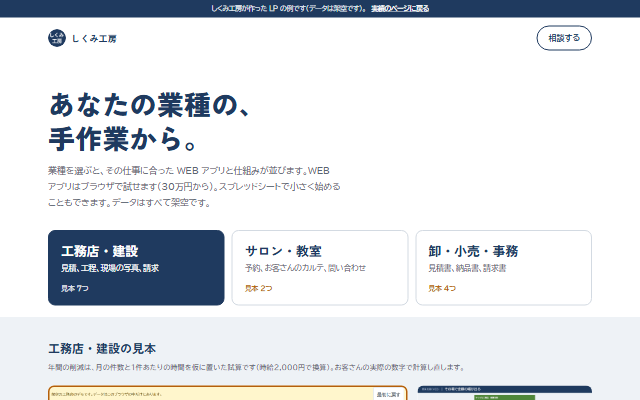
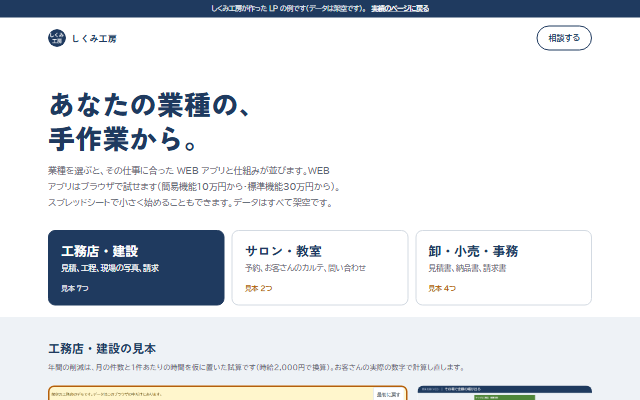
WEB アプリの値段を、簡易機能10万円から・標準機能30万円からにする

Changed region(s): [[0.0625, 0.45, 0.5312, 0.54]]

diff --git a/index.html b/index.html
@@ -246,7 +246,7 @@ footer a { color:var(--ink); }
   <h1><span>現場も予約も、</span><span>スマホで回る仕組みに。</span></h1>
   <p class="lead">予約・現場・お客さんの管理を、WEB アプリにします。社長・社員・お客さんで見える範囲を分け、外からもスマホのホーム画面から使えます。IT 担当のいない小さな会社のための仕組みです。</p>
   <div class="actions"><a class="btn primary" href="#web">WEB アプリを試す</a><a class="btn ghost" href="#contact">無料で相談する</a></div>
-  <ul class="facts"><li><b>2</b>つの WEB アプリを、ブラウザで試せます</li><li>WEB アプリは<b>30</b>万円から</li><li>スプレッドシートなら<b>2</b>万円から始められます</li><li>納品から<b>30</b>日間、不具合は無料で直します</li></ul>
+  <ul class="facts"><li><b>2</b>つの WEB アプリを、ブラウザで試せます</li><li>WEB アプリは<b>10</b>万円から</li><li>スプレッドシートなら<b>2</b>万円から始められます</li><li>納品から<b>30</b>日間、不具合は無料で直します</li></ul>
 </header>
 
 <section class="block" id="pains" aria-labelledby="pains-h">
@@ -259,7 +259,7 @@ footer a { color:var(--ink); }
   <h2 id="ways-h">3つの作り方</h2>
   <p class="intro">今お使いの道具と、困りごとの大きさに合わせて選びます。</p>
   <div class="ways">
-    <div class="main"><h3>WEB アプリ</h3><p class="price">30万円から</p><p>ログインと権限、予約や現場の管理、お客さんの専用ページ。スプレッドシートでは足りない業務の画面を作ります。スマホのホーム画面にも入れられます。</p><p class="to"><a href="#web">見本2つ（ブラウザで試せます）</a>　<a href="web.html">WEB で管理するよさ</a></p></div>
+    <div class="main"><h3>WEB アプリ</h3><p class="price">簡易機能 10万円から・標準機能 30万円から</p><p>今の Excel やスプレッドシートを、スマホでも使える画面に（簡易機能）。ログインと権限、予約や現場の管理など、複数の業務をまとめる社内システムに（標準機能）。スマホのホーム画面にも入れられます。</p><p class="to"><a href="#web">見本2つ（ブラウザで試せます）</a>　<a href="web.html">WEB で管理するよさ</a></p></div>
     <div><h3>Google スプレッドシート</h3><p class="price">1つ2万円から</p><p>今お使いの Google の中で、記録・通知・書類の作成を自動にします。困りごと1つから、小さく始められます。</p><p class="to"><a href="#small">見本6つ（動画）</a></p></div>
     <div><h3>Excel（マクロ）</h3><p class="price">ご相談</p><p>Excel のまま、見積書から納品書、月の請求書までをつなげます。今ある Excel のマクロの修正も承ります。</p><p class="to"><a href="#small">見本1つ（動画）</a></p></div>
   </div>
@@ -305,7 +305,7 @@ footer a { color:var(--ink); }
   <ol class="road">
     <li><span class="num">1</span><h3>小さく始める</h3><p>スプレッドシートや Excel で、困りごと1つを自動に。</p><p class="price">1つ2万円から・セット4万円から</p></li>
     <li><span class="num">2</span><h3>データがたまる</h3><p>顧客・現場・見積が、1つの台帳にそろっていきます。</p></li>
-    <li><span class="num">3</span><h3>WEB アプリに移す</h3><p>人が増え、見せる範囲を分けたくなったら。見本の台帳は WEB アプリと列をそろえてあり、データを移しやすい作りです。</p><p class="price">30万円から</p></li>
+    <li><span class="num">3</span><h3>WEB アプリに移す</h3><p>人が増え、見せる範囲を分けたくなったら。見本の台帳は WEB アプリと列をそろえてあり、データを移しやすい作りです。</p><p class="price">簡易機能 10万円から・標準機能 30万円から</p></li>
     <li><span class="num">4</span><h3>スマホとお客さんの窓口</h3><p>外からスマホで使い、お客さんには専用ページや24時間の予約を。</p><p class="to"><a href="pwa.html">スマホのアプリとして使う</a></p></li>
   </ol>
 </section>

diff --git a/variants/c.html b/variants/c.html
@@ -107,7 +107,7 @@ footer a { color:var(--ink); }
 
 <section class="sec" aria-labelledby="v-h">
   <h2 id="v-h">小さく始めるなら、スプレッドシートと Excel</h2>
-  <p class="intro">困りごと1つから、1つ2万円で始められます。データがたまったら、上の WEB アプリ（30万円から）に移せます。どれも1〜2分の動画で、実際の画面を紹介しています。年間の削減は、件数と時間を仮に置いた試算です（時給2,000円で換算）。</p>
+  <p class="intro">困りごと1つから、1つ2万円で始められます。データがたまったら、上の WEB アプリ（簡易機能10万円から・標準機能30万円から）に移せます。どれも1〜2分の動画で、実際の画面を紹介しています。年間の削減は、件数と時間を仮に置いた試算です（時給2,000円で換算）。</p>
   <ul class="vids"><li><a href="https://youtu.be/xjfs_oFX_Rw" target="_blank" rel="noopener"><span class="thumb"><img src="../images/01-1.png" alt="お客さんがスマホで選ぶと、金額の幅（税込）が出る" width="1920" height="1080" loading="lazy"><span class="play">動画</span></span><h3>概算見積（WEB）</h3><p>概算の金額を電話・メールで聞かれ、返事が翌日になる<br><b>年約40時間</b>（試算）</p></a></li><li><a href="https://youtu.be/VqnUljA0n3E" target="_blank" rel="noopener"><span class="thumb"><img src="../images/02-1.png" alt="WEB のフォームから送ると、台帳の「受付」に1行入る" width="1920" height="1080" loading="lazy"><span class="play">動画</span></span><h3>お問い合わせの記録と通知</h3><p>問い合わせを、メールや紙から台帳に書き写している<br><b>年約22時間</b>（試算）</p></a></li><li><a href="https://youtu.be/_-2qiz1TLeg" target="_blank" rel="noopener"><span class="thumb"><img src="../images/03-1.png" alt="品目を選んで数量を入れる「見積の入力」" width="1920" height="1080" loading="lazy"><span class="play">動画</span></span><h3>正式な見積書</h3><p>見積書を、前の Excel をコピーして打ち直している<br><b>年約90時間</b>（試算）</p></a></li><li><a href="https://youtu.be/U8hm_w8dHZQ" target="_blank" rel="noopener"><span class="thumb"><img src="../images/04-1.png" alt="「予定」を1行入れてカレンダーに反映する" width="1920" height="1080" loading="lazy"><span class="play">動画</span></span><h3>工程表とカレンダー</h3><p>職人さんに、夕方1人ずつ電話で予定を伝えている<br><b>年約48時間</b>（試算）</p></a></li><li><a href="https://youtu.be/v-evSr0hZZM" target="_blank" rel="noopener"><span class="thumb"><img src="../images/05-1.png" alt="スマホで現場と区分を選んで写真を送る" width="1920" height="1080" loading="lazy"><span class="play">動画</span></span><h3>現場の写真と書類</h3><p>LINE で届いた現場の写真を、手でフォルダに分けている<br><b>年約110時間</b>（試算）</p></a></li><li><a href="https://youtu.be/rY_ovs0BVUg" target="_blank" rel="noopener"><span class="thumb"><img src="../images/07-1.png" alt="対象の売上を顧客ごとにまとめた確認の画面" width="1920" height="1080" loading="lazy"><span class="play">動画</span></span><h3>請求書の自動作成</h3><p>月末に、売上の表から請求書を1通ずつ作っている<br><b>年約35時間</b>（試算）</p></a></li><li><a href="https://youtu.be/3ar2R-4wTmQ" target="_blank" rel="noopener"><span class="thumb"><img src="../images/X01-1.png" alt="動画の場面：ボタンで、見積書の PDF ができる" width="1920" height="1080" loading="lazy"><span class="play">動画</span></span><h3>見積書・納品書・請求書</h3><p>見積書・納品書・請求書を、別々に打ち直している<br><b>年約215時間</b>（試算）</p></a></li></ul>
 </section>
 </div>

diff --git a/variants/e.html b/variants/e.html
@@ -88,7 +88,7 @@ footer a { color:var(--ink); }
 <header class="open">
   <h1>小さく始めて、<br>WEB アプリまで育てる。</h1>
   <p>いきなり大きなシステムは要りません。従業員10人ほどの架空の工務店を例に、スプレッドシート1つから、スマホで回る WEB アプリになるまでの道のりを描きました。</p>
-  <ul class="chips"><li class="chip">はじめは<b>2</b>万円から</li><li class="chip goal">WEB アプリは<b>30</b>万円から</li><li class="chip">どの段階からでも始められます</li></ul>
+  <ul class="chips"><li class="chip">はじめは<b>2</b>万円から</li><li class="chip goal">WEB アプリは<b>10</b>万円から</li><li class="chip">どの段階からでも始められます</li></ul>
 </header>
 
 <ol class="road">
@@ -118,7 +118,7 @@ footer a { color:var(--ink); }
     <h2>WEB アプリに移す</h2>
     <p class="lead">人が増え、職人やお客さんに見せる範囲を分けたくなったら。見本の台帳は WEB アプリと列をそろえてあり、データを移しやすい作りです。</p>
     <div class="box">
-      <div class="facts"><span><b>30万円から</b>中身に合わせてお見積りします</span><span><b>約150時間・約30万円分</b>現場管理アプリの年間の削減（試算）</span></div>
+      <div class="facts"><span><b>標準機能 30万円から</b>今のシート1つを画面にする簡易機能は10万円から</span><span><b>約150時間・約30万円分</b>現場管理アプリの年間の削減（試算）</span></div>
       <ul class="items" style="grid-template-columns:1fr"><li><small>W01</small>現場管理アプリ<span class="e">年約150時間・約30万円分（試算）</span><a href="https://site-manager.shikumikobo.com/" target="_blank" rel="noopener">ブラウザで試す</a></li></ul>
       <p class="side"><a href="../web.html">WEB で管理するよさ</a>を、別のページで説明しています。</p>
     </div>

diff --git a/variants/b.html b/variants/b.html
@@ -76,7 +76,7 @@ footer a { color:var(--ink); }
 <div class="top"><a class="brand" href="#"><img src="../images/icon.png" alt="" width="36" height="36">しくみ工房</a><a class="btn" href="#contact">相談する</a></div>
 <header class="hero">
   <h1>あなたの業種の、<br>手作業から。</h1>
-  <p>業種を選ぶと、その仕事に合った WEB アプリと仕組みが並びます。WEB アプリはブラウザで試せます（30万円から）。スプレッドシートで小さく始めることもできます。データはすべて架空です。</p>
+  <p>業種を選ぶと、その仕事に合った WEB アプリと仕組みが並びます。WEB アプリはブラウザで試せます（簡易機能10万円から・標準機能30万円から）。スプレッドシートで小さく始めることもできます。データはすべて架空です。</p>
   <div class="inds" role="tablist" aria-label="業種"><button class="ind" role="tab" id="t-build" aria-controls="panel" aria-selected="false" data-ind="build"><b>工務店・建設</b><span>見積、工程、現場の写真、請求</span><small>見本 7つ</small></button><button class="ind" role="tab" id="t-salon" aria-controls="panel" aria-selected="false" data-ind="salon"><b>サロン・教室</b><span>予約、お客さんのカルテ、問い合わせ</span><small>見本 2つ</small></button><button class="ind" role="tab" id="t-trade" aria-controls="panel" aria-selected="false" data-ind="trade"><b>卸・小売・事務</b><span>見積書、納品書、請求書</span><small>見本 4つ</small></button></div>
 </header>
 </div>

diff --git a/web.html b/web.html
@@ -317,6 +317,16 @@ footer a { color:var(--ink); }
   </div>
 </section>
 
+<section class="block" aria-labelledby="w3">
+  <h2 id="w3">費用の目安</h2>
+  <p class="intro">中身をうかがってから、お見積りをお出しします。</p>
+  <div class="points">
+    <div><h3>簡易機能　10万円から</h3><p>今お使いの Excel やスプレッドシート1つを、スマホでも使える WEB の画面にします。一覧・詳細・登録の画面と、ログイン、ホーム画面への追加まで。</p></div>
+    <div><h3>標準機能　30万円から</h3><p>複数の業務をまとめる社内システムです。役割ごとの見える範囲（データベースの側でも守ります）、変更の履歴、対応漏れの警告、スマホへの対応まで。</p></div>
+  </div>
+  <p class="note-s">お客さんの専用ページ、予約の受け付け、通知、書類の作成などは、内容をうかがって足していきます。スプレッドシートで足りる場合は、そちらをご提案します。</p>
+</section>
+
 <div class="next">
   <h3>スマホでの使い方は、別のページで</h3>
   <p>外回りの営業や現場で、スマホだけで仕事が終わる場面と、ホーム画面への入れ方（iPhone・Android）をまとめました。</p>
